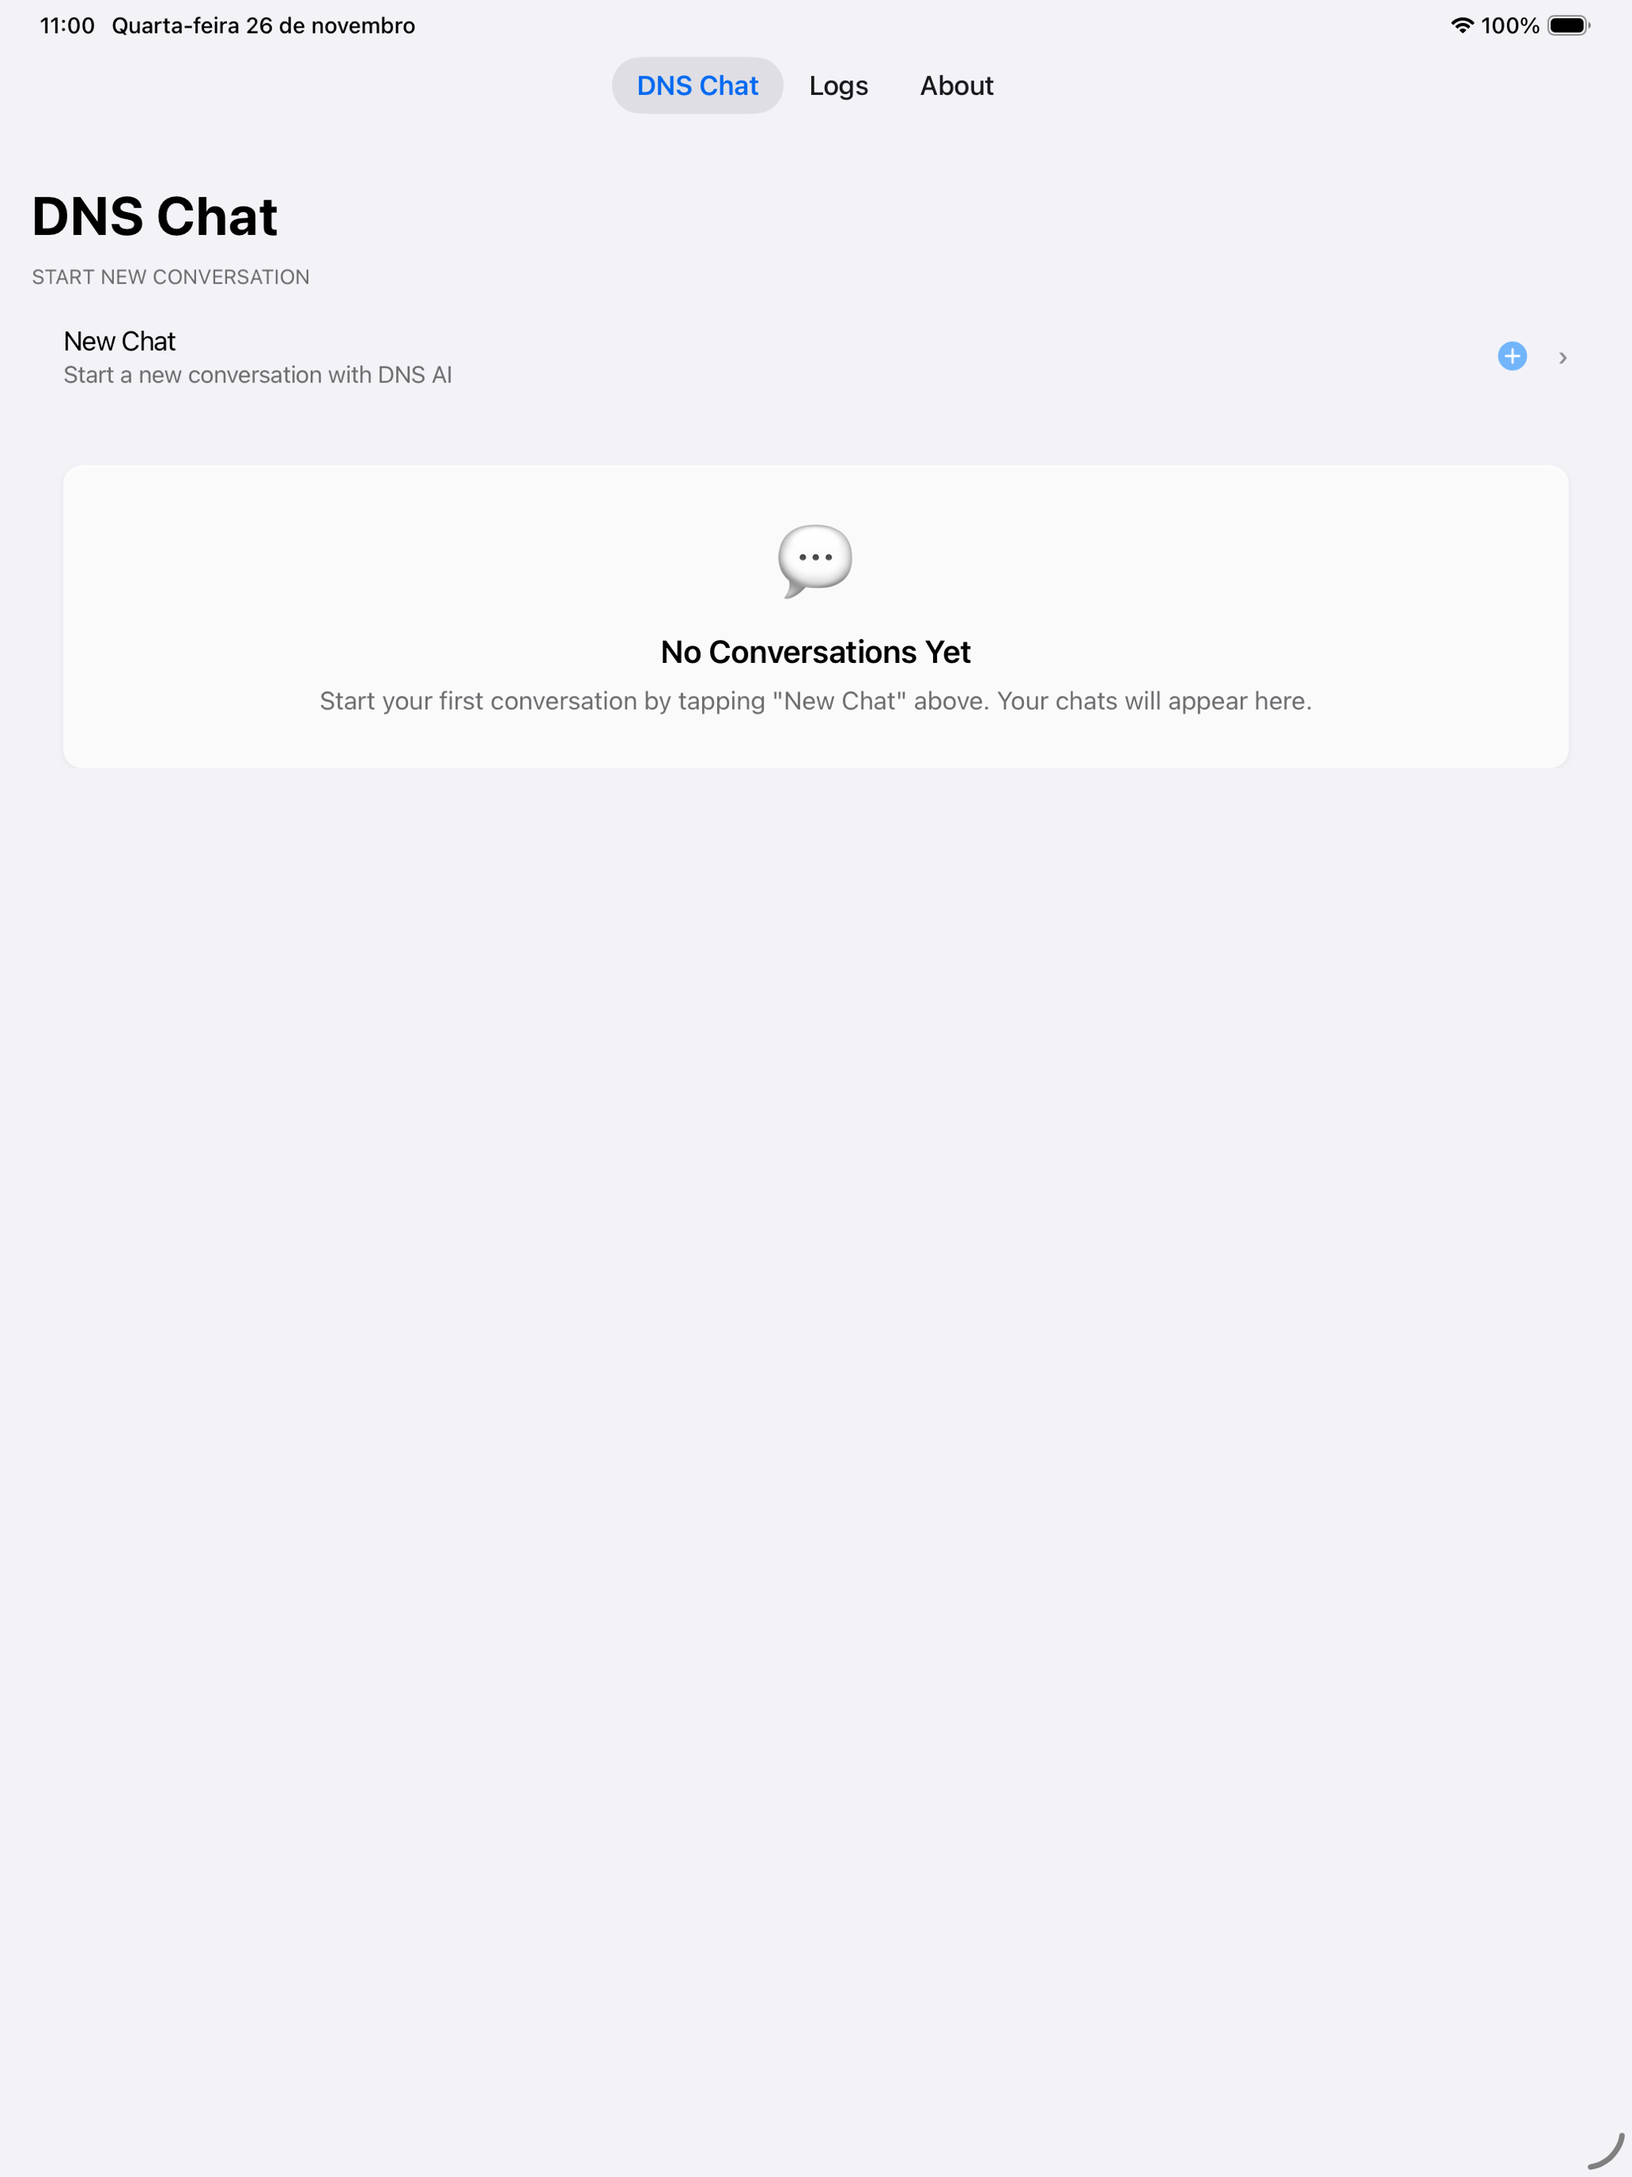
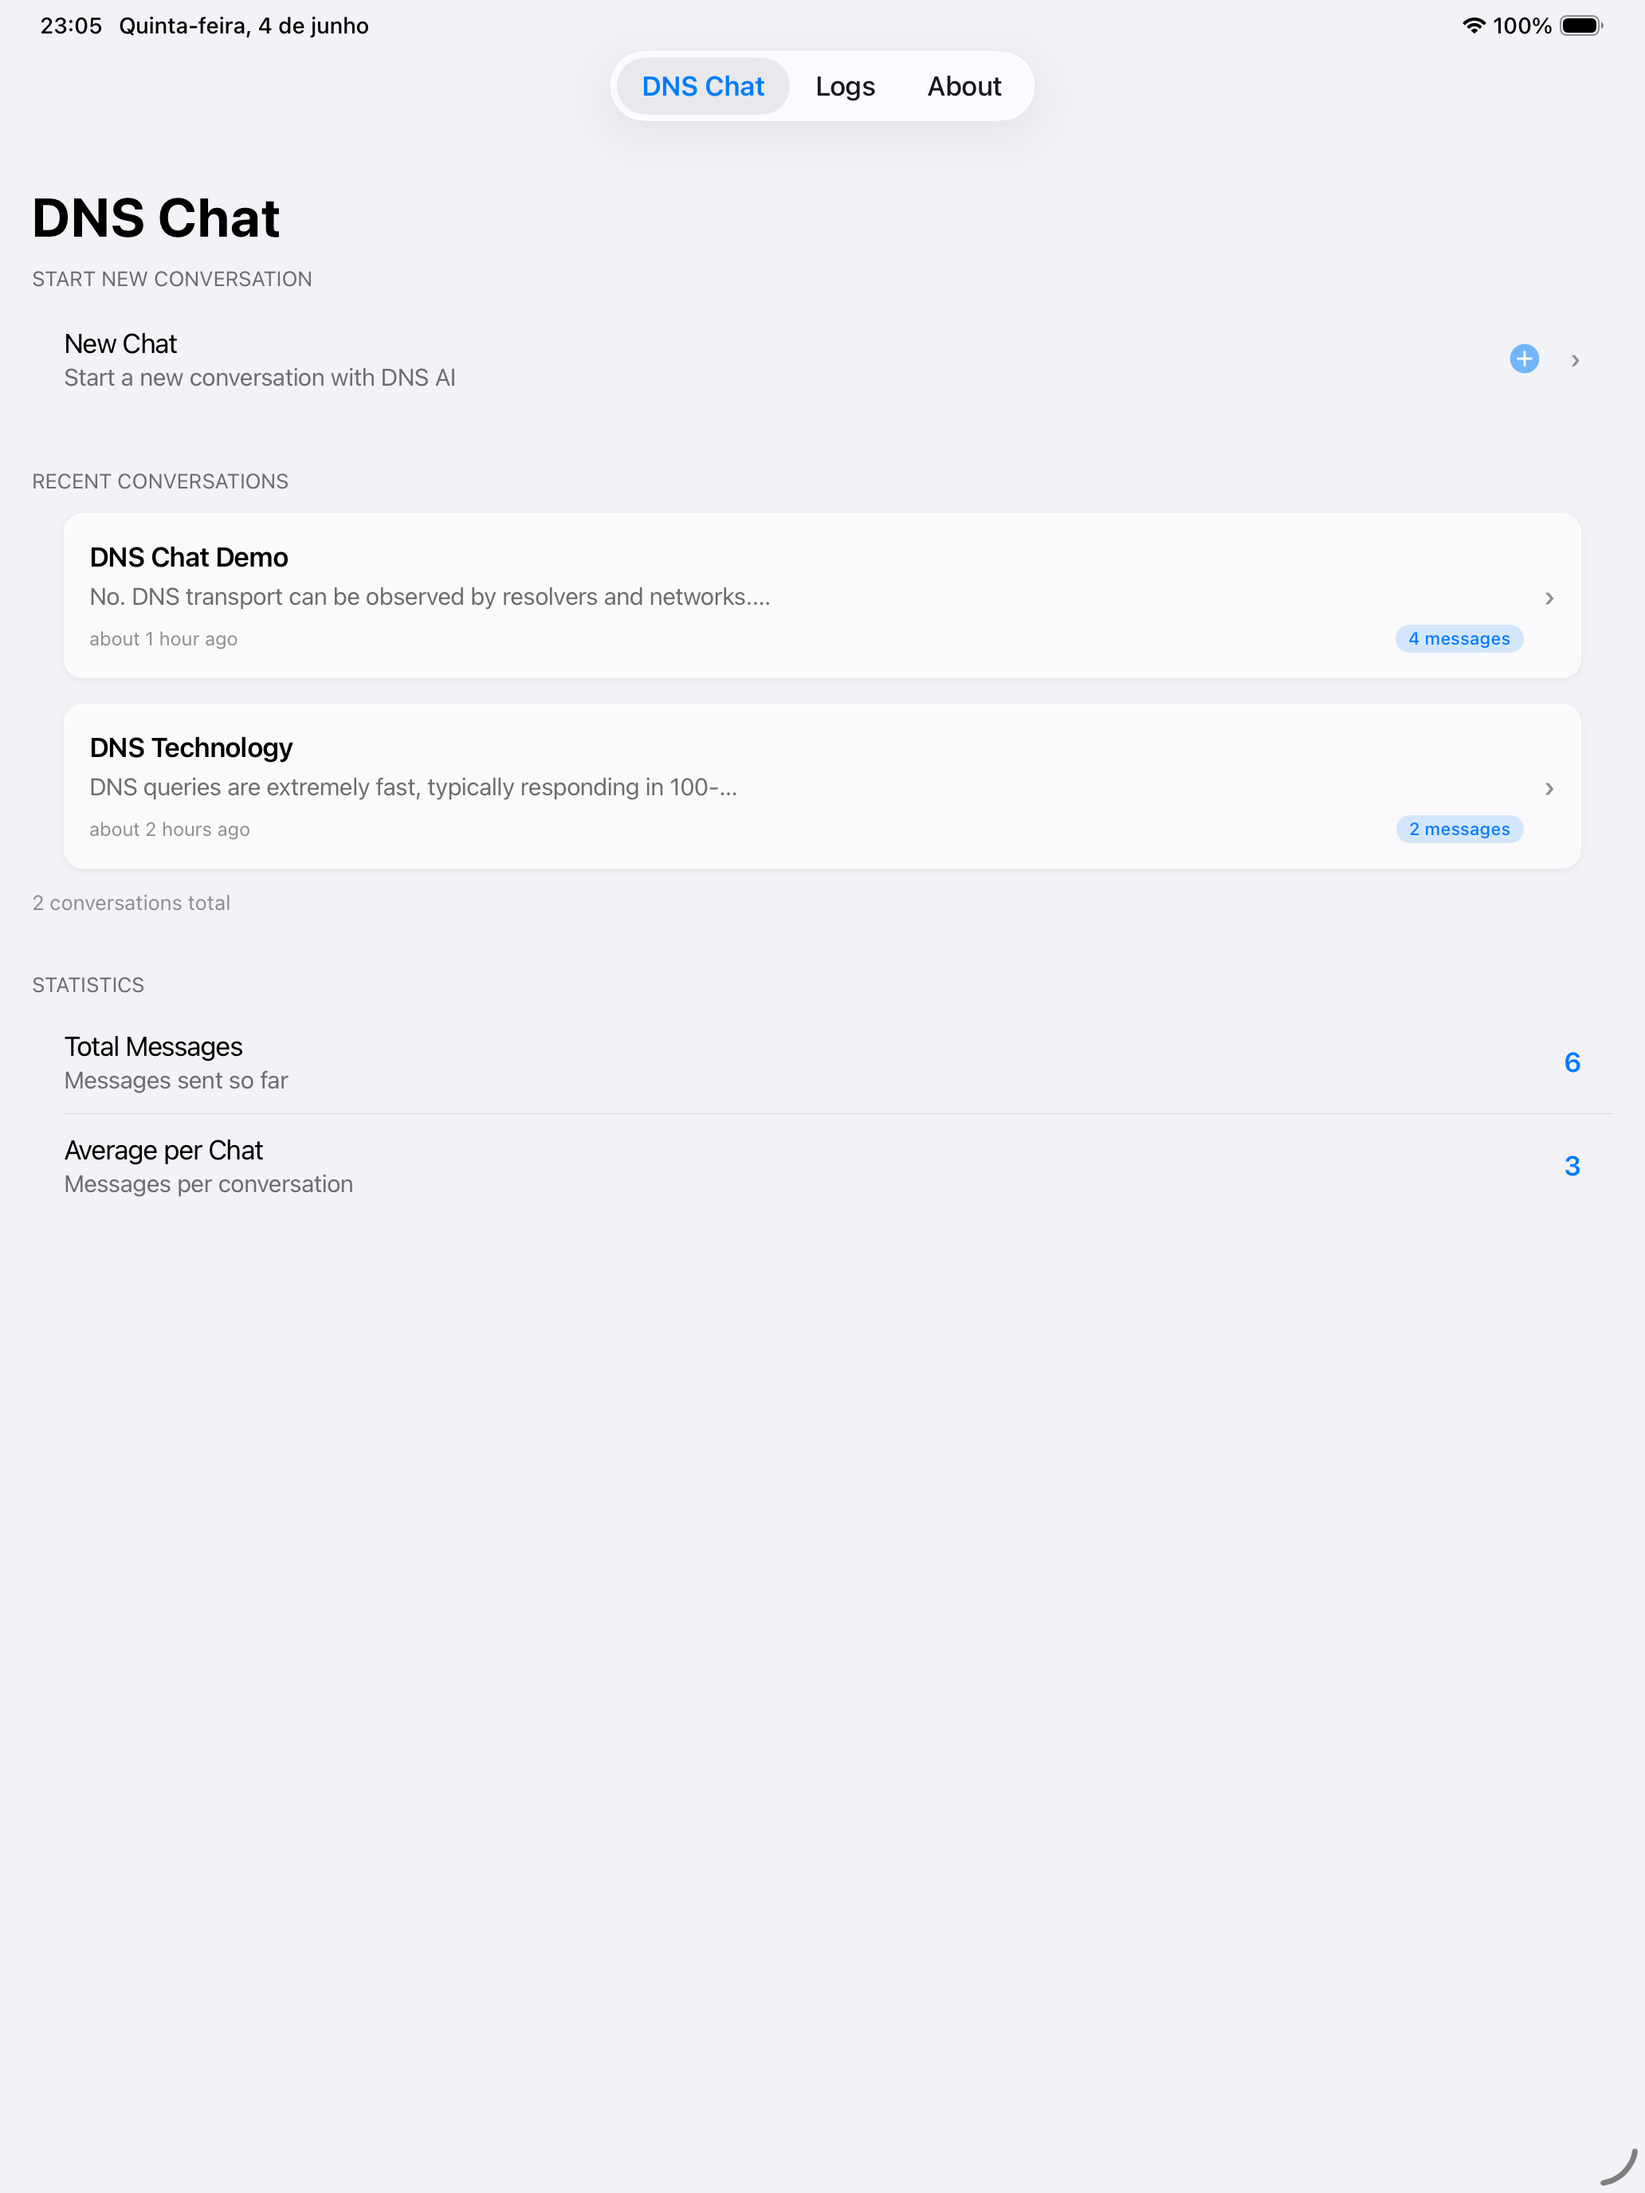
Fix screenshot mode (Settings.get) and refresh App Store screenshots
Screenshot mode was permanently off in shipping builds: the custom
ScreenshotModeModule was never added to the Xcode Sources build phase,
so NativeModules.ScreenshotModeModule was always undefined and
isScreenshotMode() always returned false. Every App Store screenshot
was therefore an empty-state screen.

- Detect screenshot mode via RN's core Settings module
  (Settings.get("SCREENSHOT_MODE")), which reads the -SCREENSHOT_MODE 1
  launch argument from NSUserDefaults and is actually in the build.
- Resolve screenshot mock content (conversations + DNS logs) to the
  device locale so pt-BR captures render Portuguese instead of English.
- Delete the vestigial ScreenshotModeModule.swift/.m (orphan files,
  never compiled; removal verified safe by zero pbxproj refs and an
  on-simulator re-install showing mock data still loads).
- Regenerate every App Store screenshot: 24 populated assets at modern
  sizes (iPhone 6.9" 1320x2868, iPhone 6.3" 1206x2622, iPad 13"
  2064x2752), en-US + pt-BR, light + dark.
- Add a regression test for isScreenshotMode detection.

Constraint: public-redaction policy holds; no App Store Connect IDs,
profiles, team/device IDs, or local paths in source, docs, or message.
Confidence: high
Scope-risk: narrow
Directive: 4.0.24 build 58 is archived and uploaded to TestFlight
separately; the 24 screenshots were also uploaded to the 4.0.24 App
Store draft via asc (not contained in this commit).
[…]

diff --git a/src/utils/screenshotMode.ts b/src/utils/screenshotMode.ts
@@ -5,49 +5,53 @@
  * Screenshot mode is enabled when the app is launched with -SCREENSHOT_MODE 1 argument.
  */
 
-import { NativeModules, Platform } from "react-native";
-import type { Message } from "../types/chat";
+import { Platform, Settings } from "react-native";
+import * as Localization from "expo-localization";
 import type { DNSQueryLog } from "../services/dnsLogService";
-
-// Get reference to ScreenshotModeModule for iOS
-const ScreenshotModeModule = NativeModules["ScreenshotModeModule"];
 
 // Check if running in screenshot mode
 export function isScreenshotMode(): boolean {
   if (Platform.OS === "ios") {
-    // Method 1: Check custom ScreenshotModeModule (reads UserDefaults and ProcessInfo)
+    // The `-SCREENSHOT_MODE 1` launch argument is persisted to NSUserDefaults
+    // (argument domain) and surfaced synchronously by RN's Settings module.
+    // NSUserDefaults coerces the argument to 1, "1", or true.
     try {
-      if (ScreenshotModeModule?.isScreenshotMode !== undefined) {
-        return ScreenshotModeModule.isScreenshotMode === true;
+      const raw: unknown = Settings?.get?.("SCREENSHOT_MODE");
+      if (raw === 1 || raw === "1" || raw === true) {
+        return true;
       }
-    } catch (error) {
-      // Module not available, try fallback
-    }
-
-    // Method 2: Fallback to deprecated Settings module
-    try {
-      const Settings = NativeModules["Settings"];
-      if (Settings && Settings["get"]) {
-        const screenshotMode = Settings["get"]("SCREENSHOT_MODE");
-        return screenshotMode === "1" || screenshotMode === true;
-      }
-    } catch (error) {
-      // Settings module not available
+    } catch {
+      // Settings unavailable (e.g. unit tests) — fall through.
     }
   }
 
-  // Fallback: Check for __DEV__ and global flag
+  // Dev-only escape hatch for Metro / Jest where neither native signal exists.
   if (typeof __DEV__ !== "undefined" && __DEV__) {
     if (typeof globalThis === "undefined") return false;
     const record = globalThis as Record<string, unknown>;
-    return record["__SCREENSHOT_MODE__"] === true;
+    if (record["__SCREENSHOT_MODE__"] === true) {
+      return true;
+    }
   }
 
   return false;
 }
 
+// Resolve the locale used for screenshot mock content. Defaults to the device
+// locale (driven by -AppleLanguages during capture) so pt-BR screenshots render
+// Portuguese conversations and logs instead of English ones.
+function resolveScreenshotLocale(explicit?: string | null): string {
+  if (explicit) return explicit;
+  try {
+    return Localization.getLocales()[0]?.languageTag || "en-US";
+  } catch {
+    return "en-US";
+  }
+}
+
 // Mock conversations for screenshots
-export function getMockConversations(locale: string = "en-US") {
+export function getMockConversations(localeOverride?: string | null) {
+  const locale = resolveScreenshotLocale(localeOverride);
   const isPortuguese = locale.startsWith("pt");
 
   const now = Date.now();
@@ -177,7 +181,8 @@ export function getMockConversations(locale: string = "en-US") {
 }
 
 // Mock DNS logs for screenshots
-export function getMockDNSLogs(locale: string = "en-US"): DNSQueryLog[] {
+export function getMockDNSLogs(localeOverride?: string | null): DNSQueryLog[] {
+  const locale = resolveScreenshotLocale(localeOverride);
   const isPortuguese = locale.startsWith("pt");
 
   const now = Date.now();

diff --git a/__tests__/screenshotMode.detection.spec.ts b/__tests__/screenshotMode.detection.spec.ts
@@ -1,0 +1,61 @@
+/**
+ * Regression coverage for the screenshot-mode detection bug.
+ *
+ * The custom `ScreenshotModeModule` was never added to the Xcode build, so
+ * `NativeModules.ScreenshotModeModule` was always undefined and the old
+ * detection always returned false — every pre-fix App Store screenshot was an
+ * empty-state screen. Detection now relies on the `-SCREENSHOT_MODE 1` launch
+ * argument, persisted to NSUserDefaults and read synchronously via RN's
+ * Settings module (which IS in the build), surfaced as 1, "1", or true.
+ */
+const globals = globalThis as Record<string, unknown>;
+
+type SettingsMock = { get: (key: string) => unknown } | undefined;
+
+// `react-native` is module-mapped to a mock whose `Settings` is captured at load
+// time by screenshotMode.ts. Re-evaluate both in an isolated registry so the
+// Settings surface can be controlled per test.
+function loadIsScreenshotMode(settings: SettingsMock): () => boolean {
+  let fn: (() => boolean) | undefined;
+  jest.isolateModules(() => {
+    const rn = require("react-native") as { Settings?: SettingsMock };
+    rn.Settings = settings;
+    fn = (require("../src/utils/screenshotMode") as typeof import("../src/utils/screenshotMode"))
+      .isScreenshotMode;
+  });
+  if (!fn) throw new Error("failed to load screenshotMode module");
+  return fn;
+}
+
+describe("isScreenshotMode", () => {
+  afterEach(() => {
+    delete globals["__SCREENSHOT_MODE__"];
+  });
+
+  it.each([1, "1", true])(
+    "returns true when Settings reports the launch argument as %p",
+    (value) => {
+      const isScreenshotMode = loadIsScreenshotMode({
+        get: (key) => (key === "SCREENSHOT_MODE" ? value : undefined),
+      });
+      expect(isScreenshotMode()).toBe(true);
+    },
+  );
+
+  it("returns false when the launch argument is absent (production)", () => {
+    const isScreenshotMode = loadIsScreenshotMode({ get: () => undefined });
+    expect(isScreenshotMode()).toBe(false);
+  });
+
+  it("does not crash and returns false when the Settings module is unavailable", () => {
+    const isScreenshotMode = loadIsScreenshotMode(undefined);
+    expect(isScreenshotMode()).toBe(false);
+  });
+
+  it("treats an unrelated Settings value (e.g. \"0\") as off", () => {
+    const isScreenshotMode = loadIsScreenshotMode({
+      get: (key) => (key === "SCREENSHOT_MODE" ? "0" : undefined),
+    });
+    expect(isScreenshotMode()).toBe(false);
+  });
+});

diff --git a/src/context/ChatContext.tsx b/src/context/ChatContext.tsx
@@ -47,7 +47,7 @@ export function ChatProvider({ children }: ChatProviderProps) {
       // SCREENSHOT MODE: Load mock conversations for deterministic UI captures
       if (isScreenshotMode()) {
         devLog("[ChatContext] Screenshot mode detected, loading mock conversations");
-        const mockConversations = getMockConversations(settings.preferredLocale || "en-US");
+        const mockConversations = getMockConversations(settings.preferredLocale);
         setChats(mockConversations as Chat[]);
         const preferredChat = options?.preserveChatId
           ? (mockConversations.find((chat) => chat.id === options.preserveChatId) ?? null)
